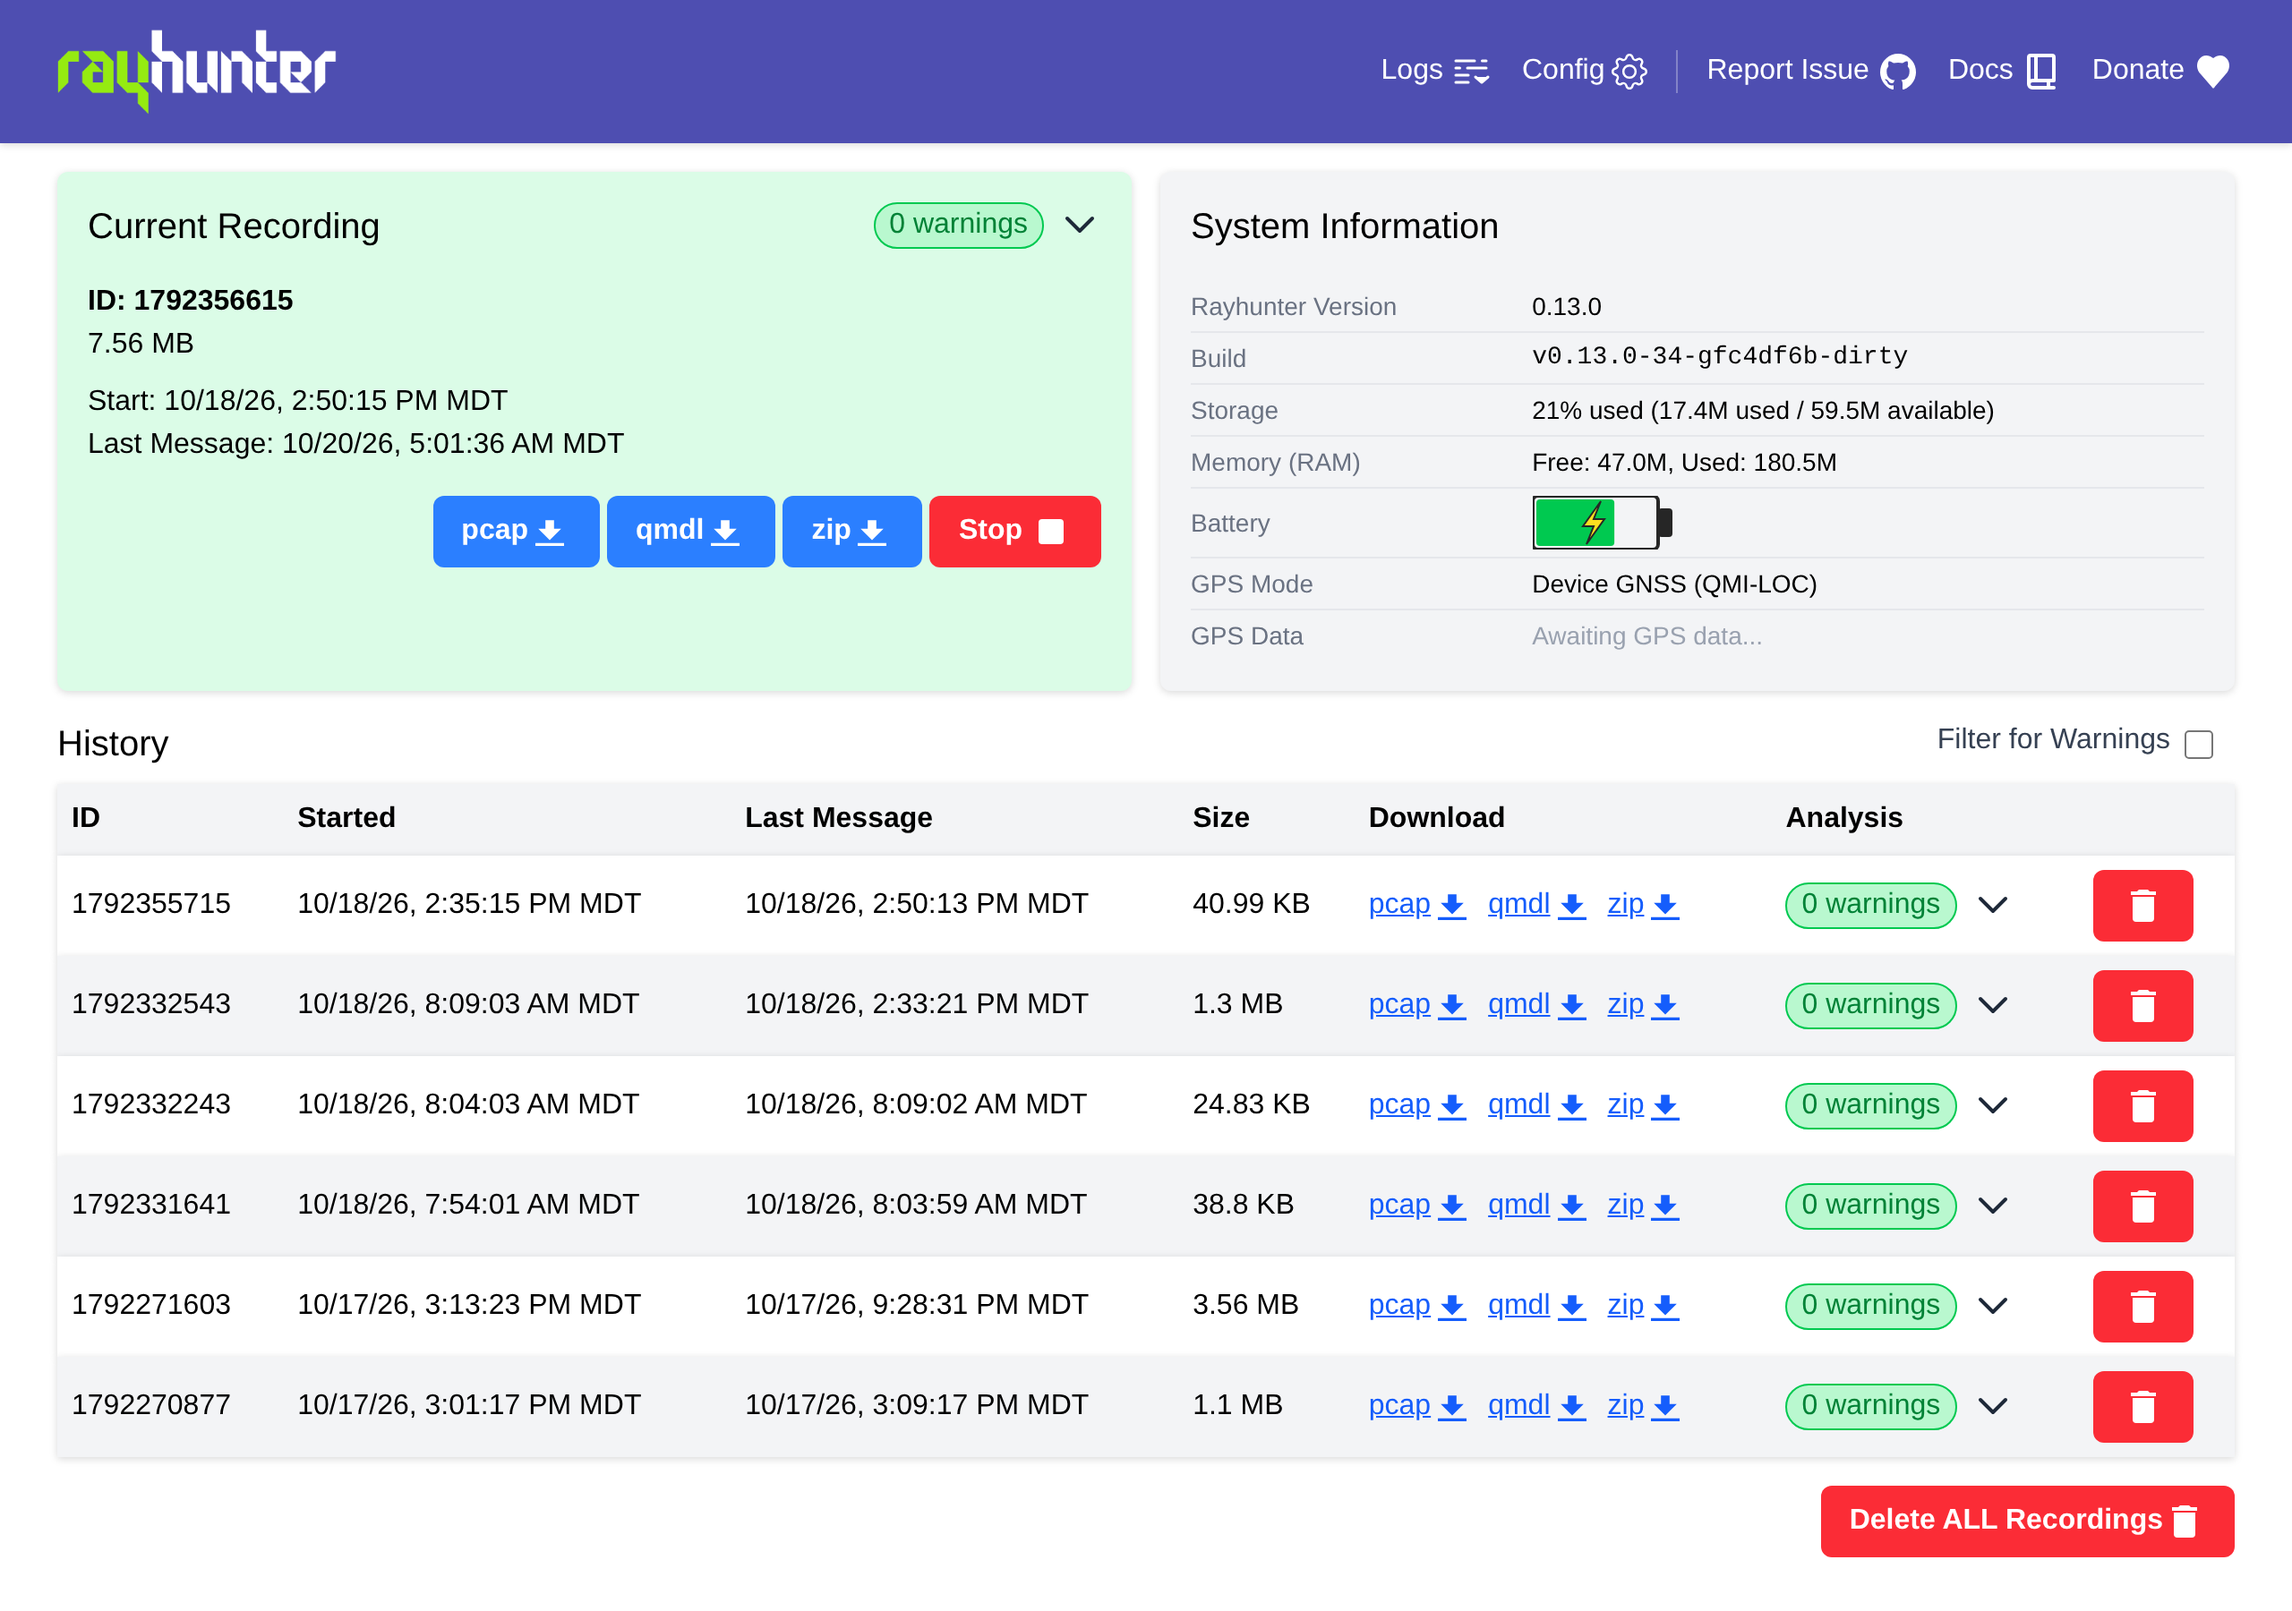
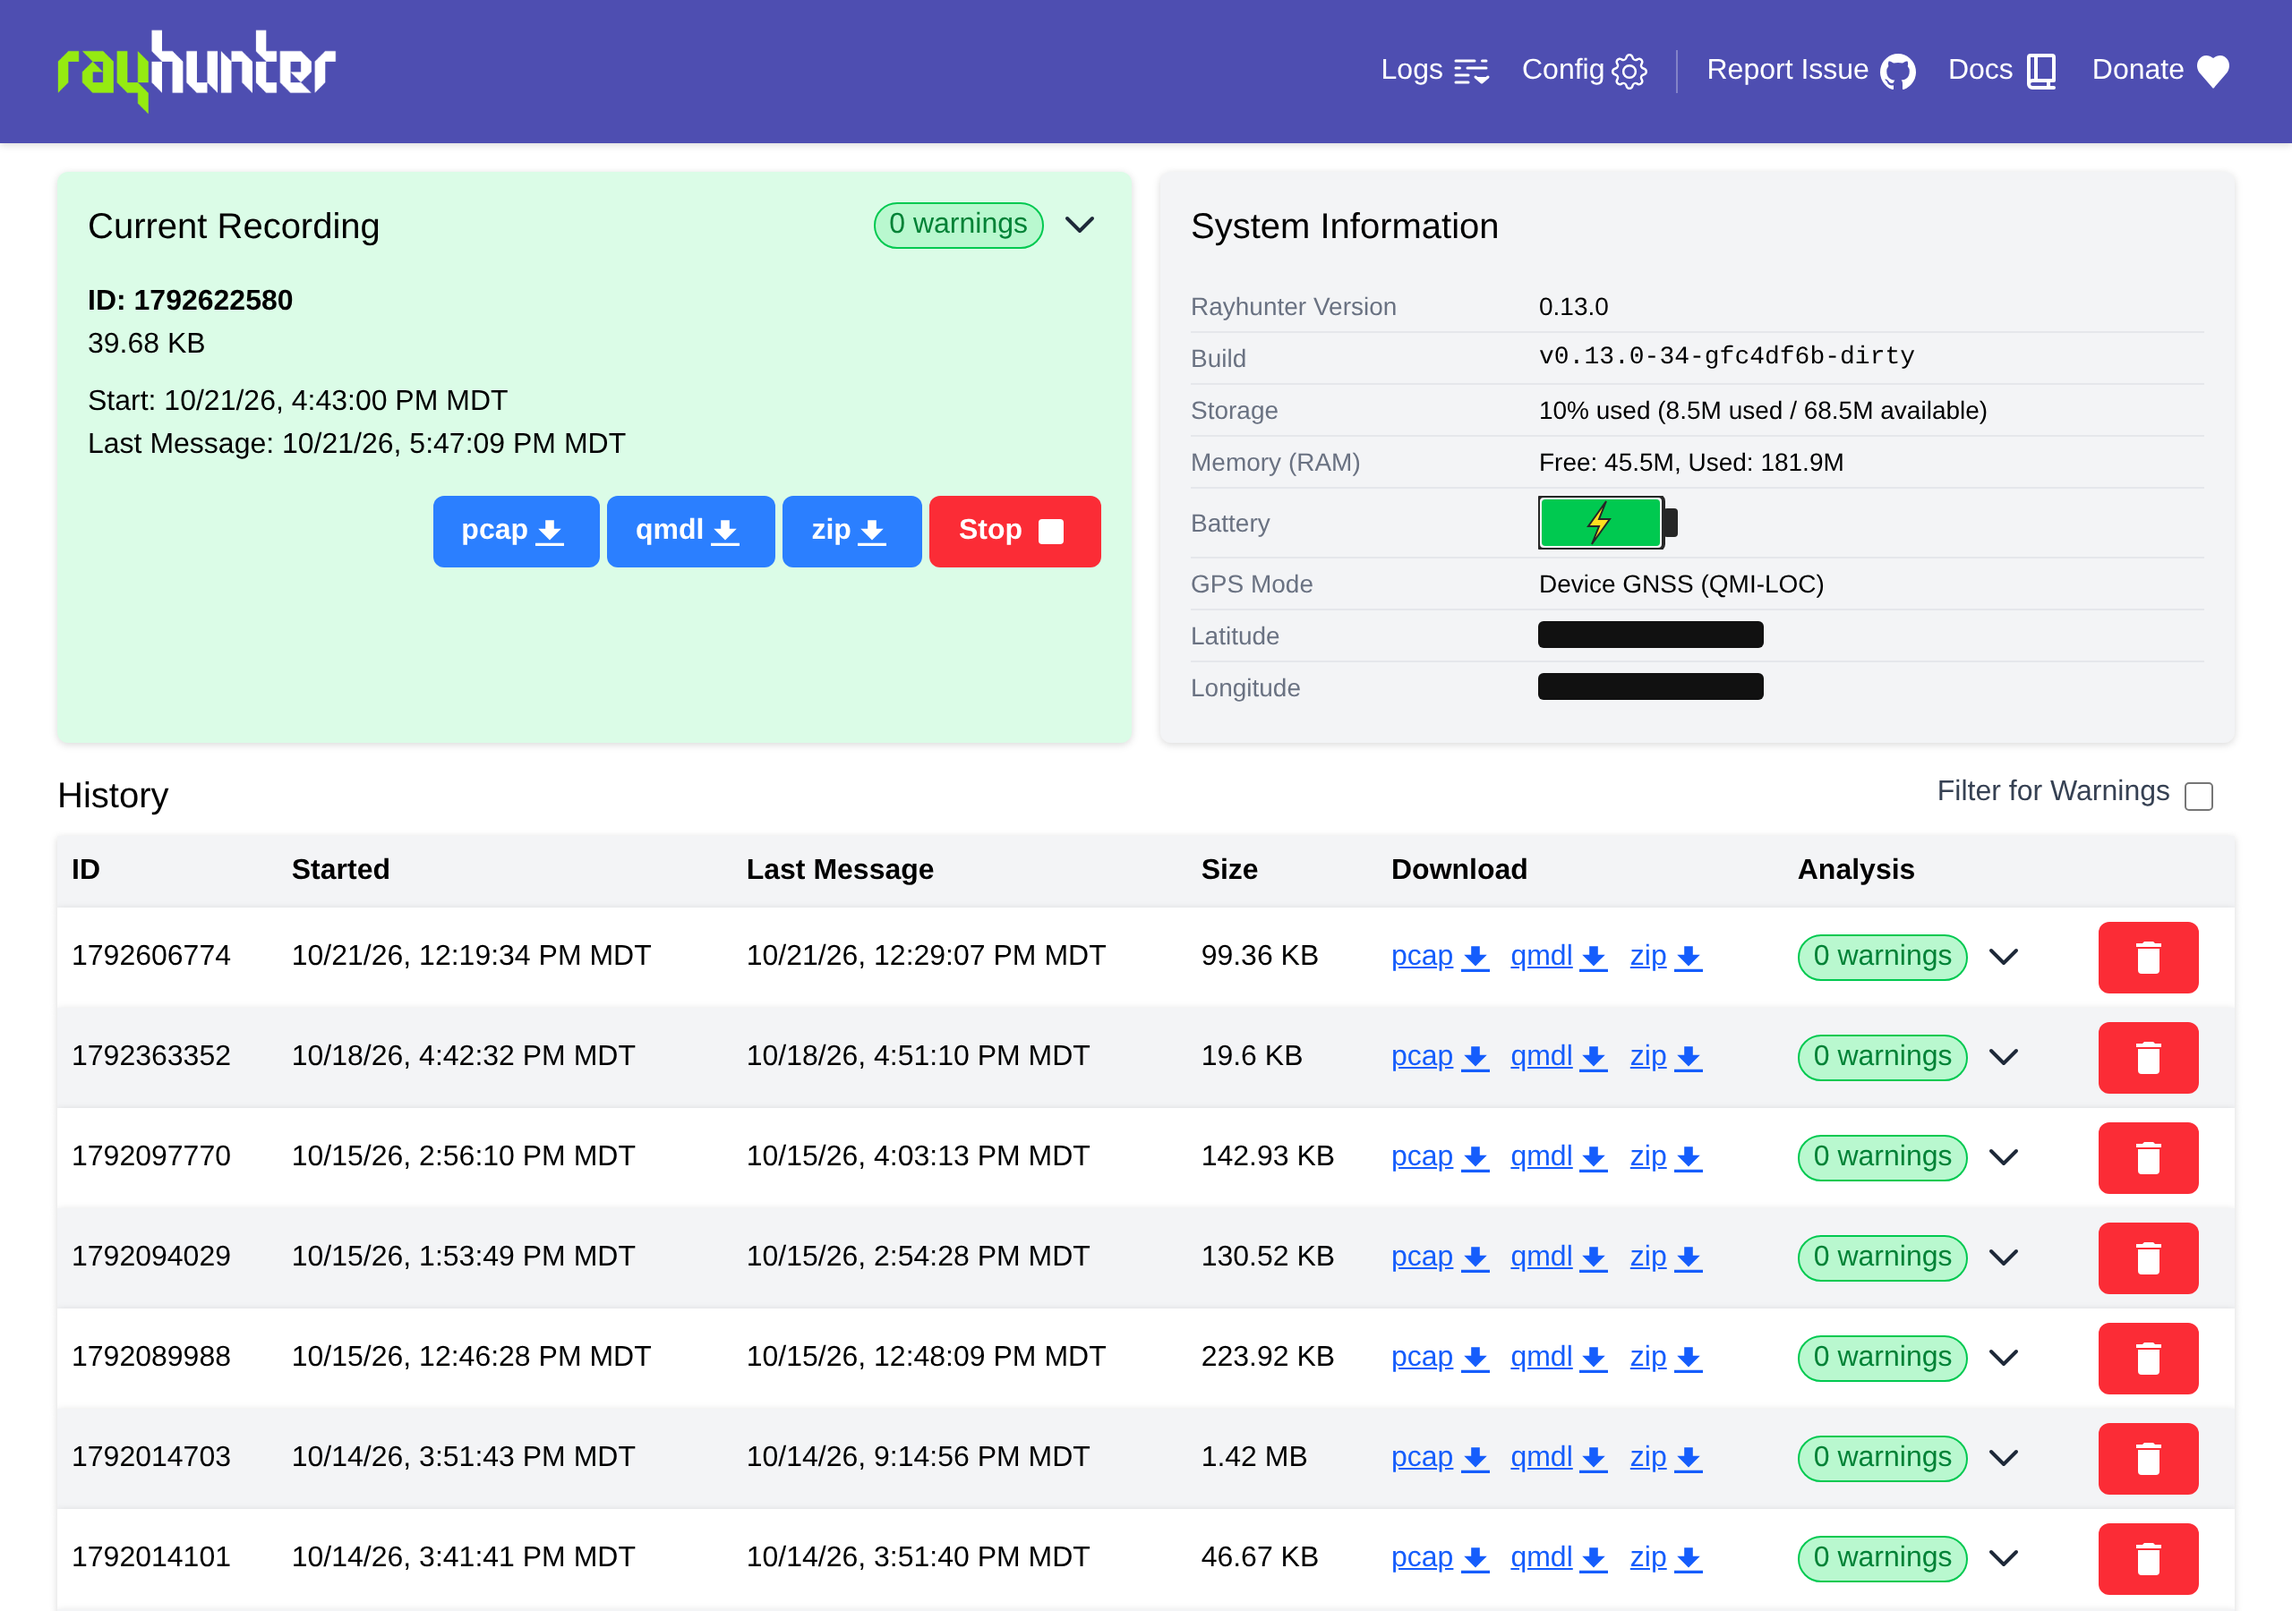
README: screenshots with a GNSS fix
Retake the web UI and System Information screenshots with the device's own
GNSS (QMI-LOC) reporting a fix. Latitude and longitude are blacked out. The
device clock was synced from the browser first, so the clock-mismatch banner
is gone.

diff --git a/README.md b/README.md
@@ -13,9 +13,9 @@ it took to get it recording, analyzing and tagging recordings with the device's 
 |---|---|
 | ![Rayhunter web UI on an Orbic R500L5](doc/orbic-r500l5/r500l5-home.png) | ![Green Rayhunter status line across the top of the R500L5's stock screen](doc/orbic-r500l5/r500l5-lcd-recording.png) |
 
-![System Information: build, storage on /cache, battery, GPS mode Device GNSS (QMI-LOC)](doc/orbic-r500l5/r500l5-system-information.png)
+![System Information: build, storage on /cache, battery, GPS mode Device GNSS (QMI-LOC) with a fix (latitude and longitude blacked out)](doc/orbic-r500l5/r500l5-system-information.png)
 
-*Storage is the `/cache` volume. The unit was indoors without sky view, so the GPS row is waiting for a fix.*
+*Storage is the `/cache` volume. The GNSS has a fix; the latitude and longitude are blacked out.*
 
 ## What works
 
